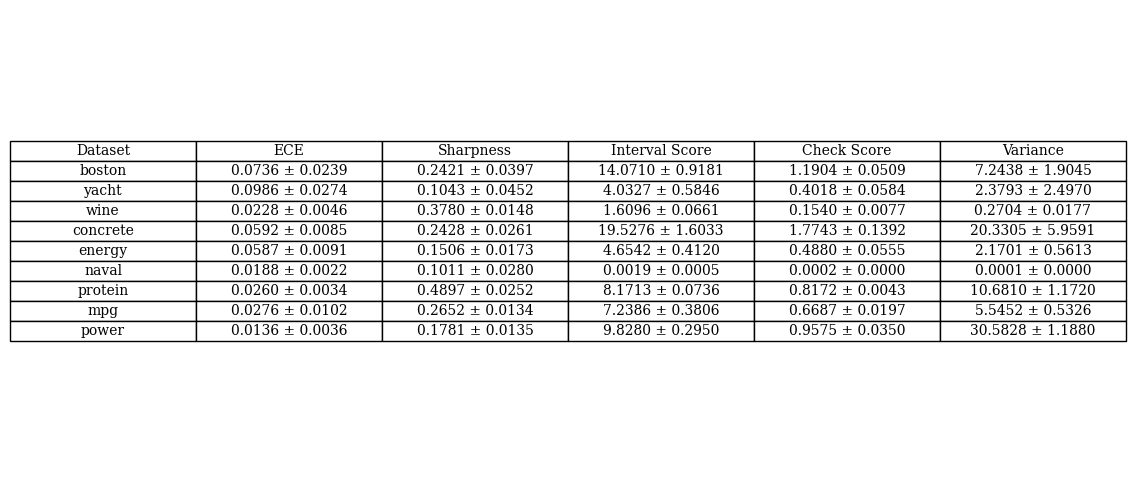
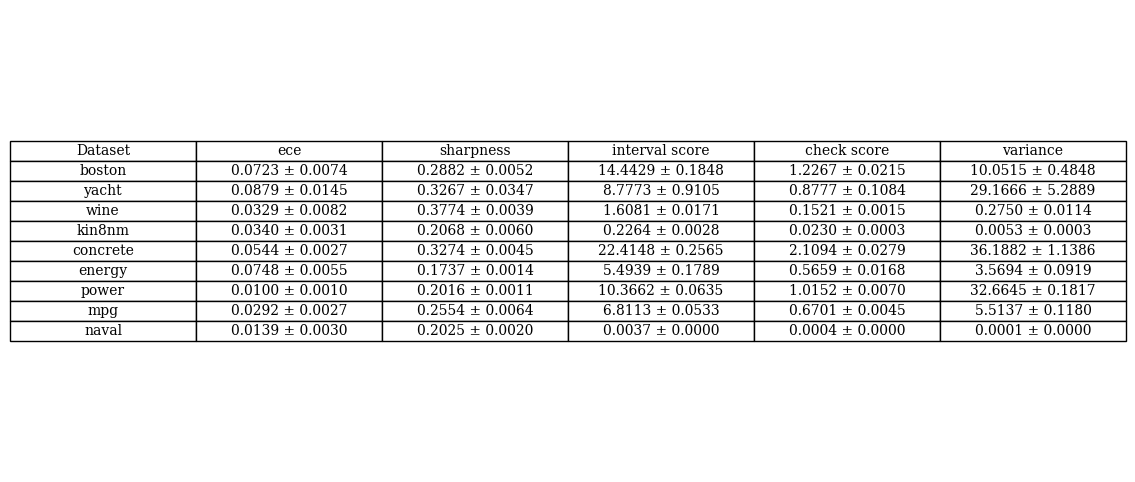
latest baseline run

diff --git a/run.py b/run.py
@@ -23,12 +23,12 @@ def main():
 
     config = OmegaConf.from_cli(sys.argv)
 
-    for dataset in ['diamonds']: # 'boston', 'yacht', 'wine', 'concrete', 'energy', 'naval', 'protein', 'mpg', 'power', 'kin8nm'
+    for dataset in ['kin8nm', 'boston', 'yacht', 'wine', 'concrete', 'energy', 'mpg', 'power', 'naval', 'protein']: # 'boston', 'yacht', 'wine', 'concrete', 'energy', 'naval', 'protein', 'mpg', 'power', 'kin8nm'
         for seed_id in range(1, 6):
             config = OmegaConf.from_cli(sys.argv)
             print(seed_id)
             config.seed = seed_id
-            config.name = f'{dataset}_{seed_id}_bpl'
+            config.name = f'{dataset}_{seed_id}'
             config = get_config(config)
             config.device = 'cuda'
             # config.clean_previous = True

diff --git a/uq/configs/dataset_groups.py b/uq/configs/dataset_groups.py
@@ -62,7 +62,7 @@ def openml297_config(config):
         # 'superconduct',
         # 'house_sales',
         # 'house_16H',
-        'diamonds',
+        # 'diamonds',
         # 'medical_charges',
         # 'year',
         # 'nyc-taxi-green-dec-2016',
